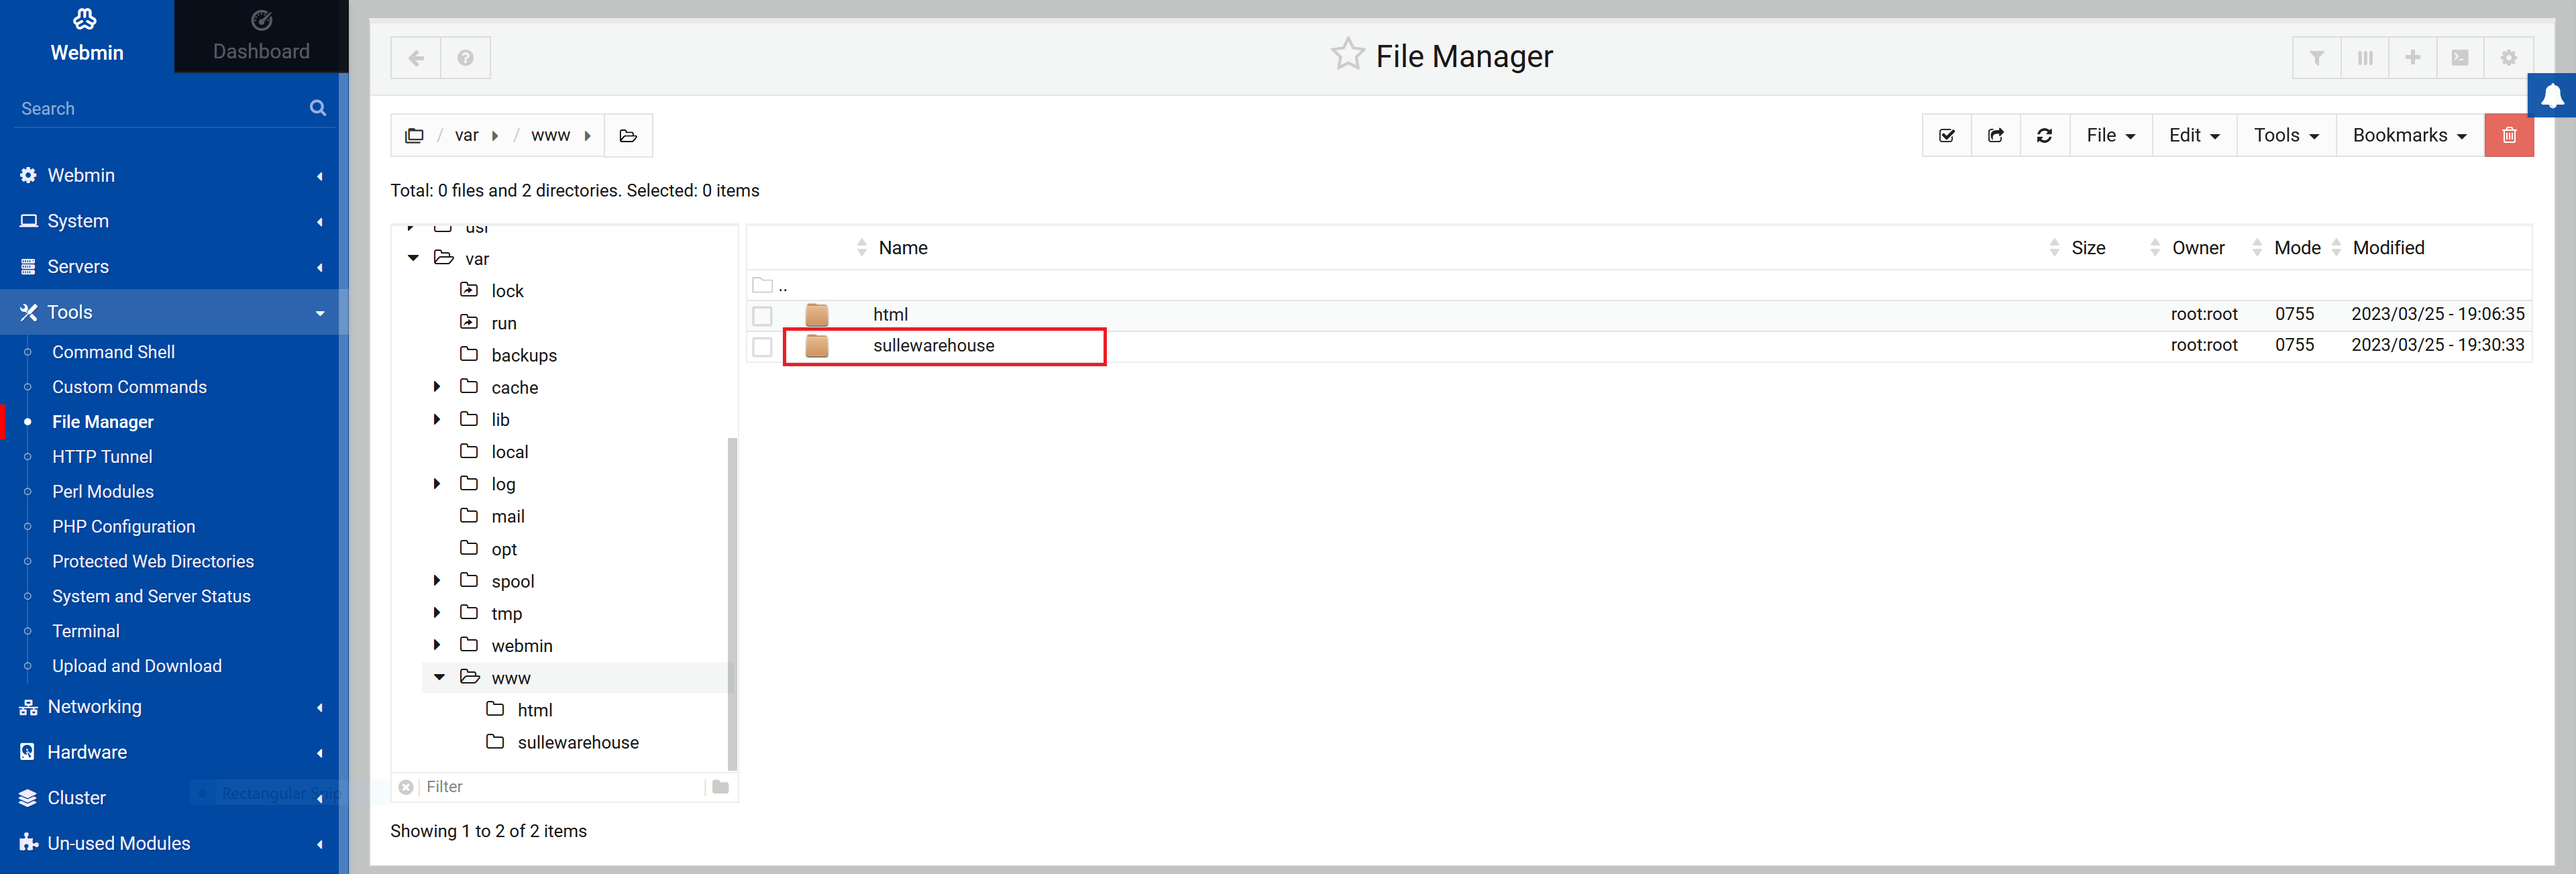
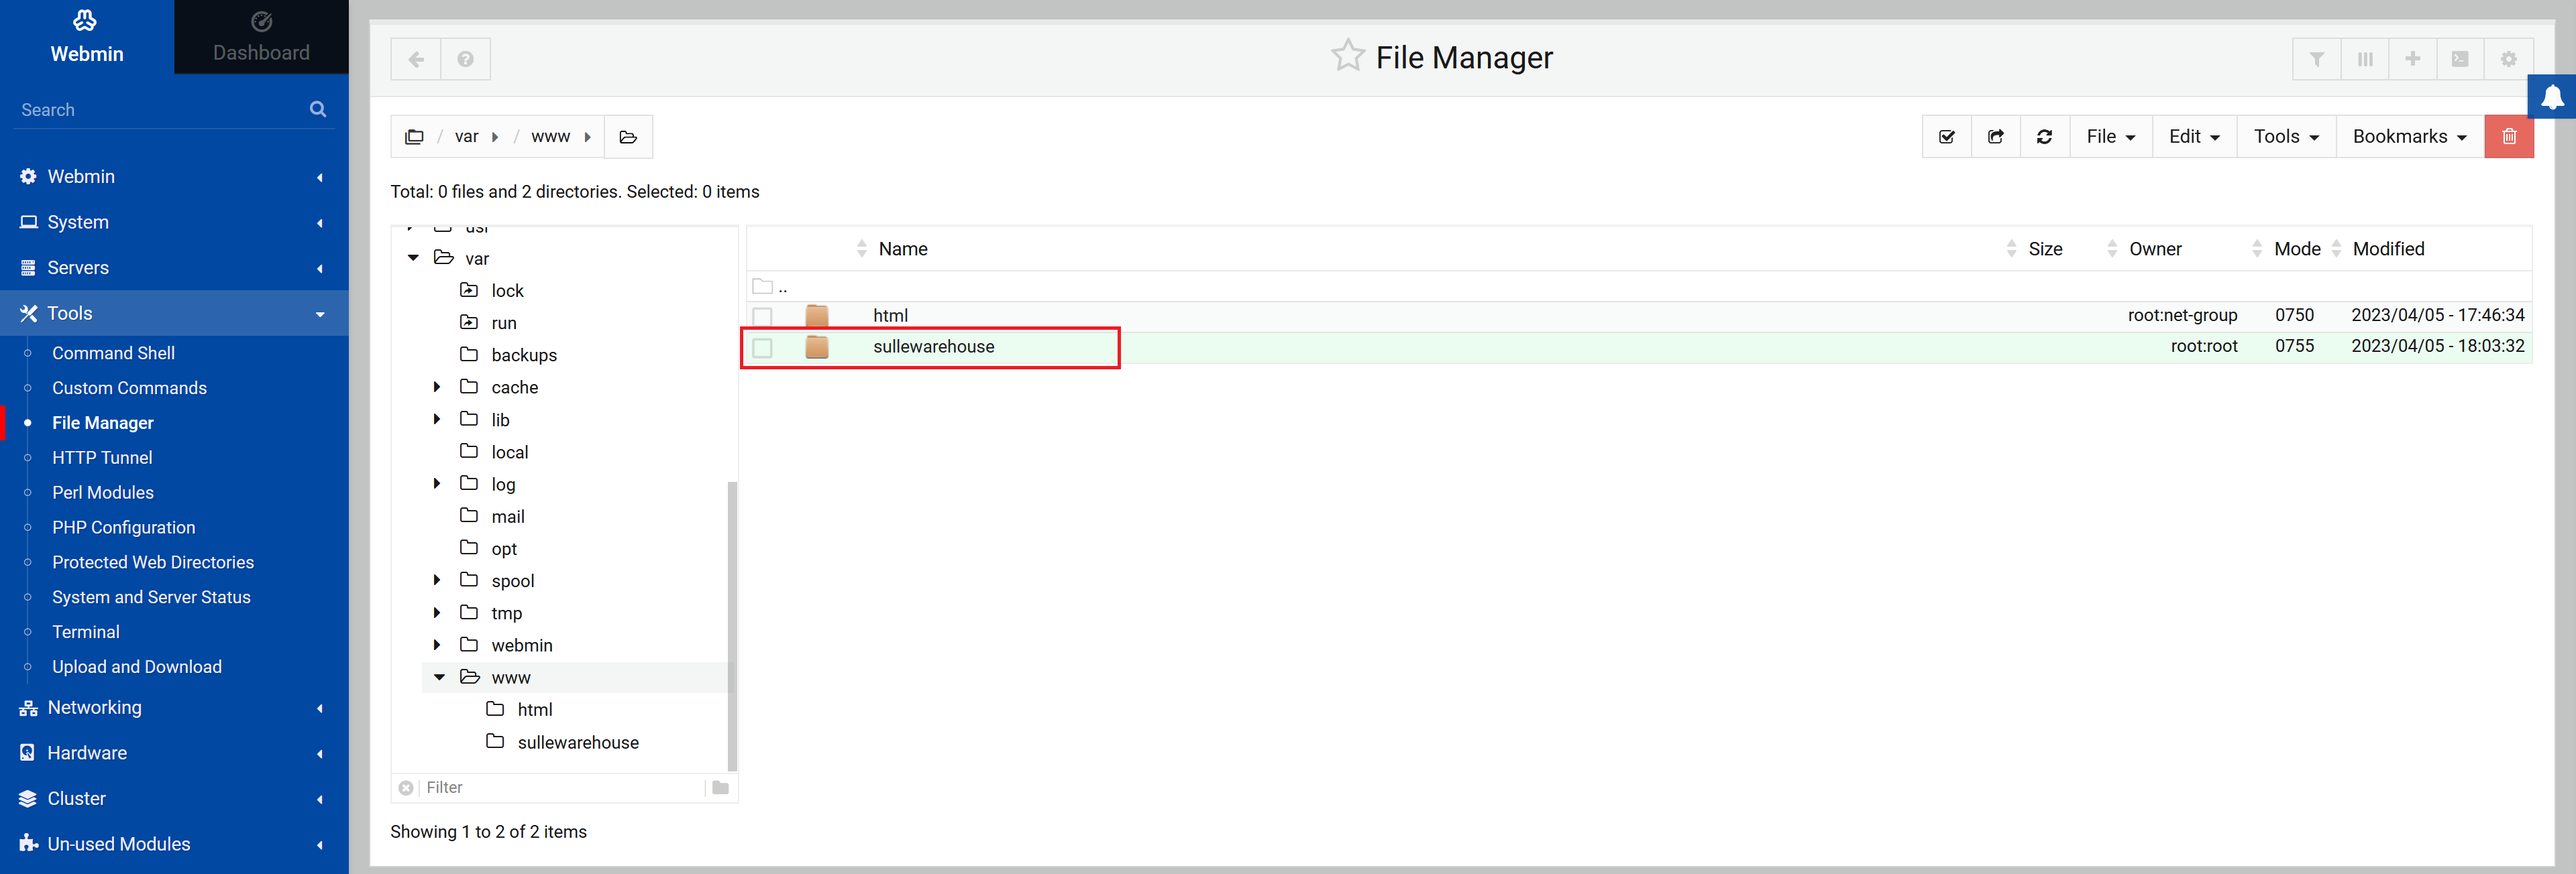
Updated Apache Setup and added basic Mail Setup

diff --git a/Postfix-Dovecot-Setup.md b/Postfix-Dovecot-Setup.md
@@ -1,0 +1,136 @@
+# Postfix & Dovecot Mail Server Setup
+### Introduction
+This is the 3rd part of the [Linux Server Setup](LSS.md) walkthrough  
+Previously we installed the following software:
+- OpenSSH
+- Webmin
+- Apache Webserver
+- MySQL Database Server
+- Postfix Mail Server
+- Dovecot IMAP/POP3 Server
+- ProFTPD
+- PHP
+
+Now we will setup our Postfix & Dovecot Mail Server.  
+Start by using SSH to login to your server:
+```
+ssh root@ip-address
+```
+
+### Postfix Configuration
+
+Enter postfix setup wizard:
+```
+dpkg-reconfigure postfix
+```
+
+1. Select `Internet Site`
+2. Enter your `System mail name`, this should match your rDNS PTR record.
+3. Type the `Recipient for root and postmaster mail` you may leave this blank.
+4. Enter the `List of domains to receive mail for`
+```
+MyWebSite.com, localhost.localdomain, , localhost
+```
+5. Select `Force synchronous updates` option, you can use the default.
+6. Enter `Local networks`, you can use defaults.
+7. Enter `Mailbox size limit`, you can use the default `0`.
+8. Type the `Local address extension character`, you can use the default `+`.
+9. For `Internet protocols to use` select `all`
+
+Set postfix to use the `Maildir` format instead of the `mbox` format:
+```
+postconf -e 'home_mailbox= Maildir\'
+```
+
+### OpenDKIM Key Generation
+
+Install and enable opendkim:
+```
+apt-get install opendkim opendkim-tools
+systemctl start opendkim
+systemctl enable opendkim
+```
+
+Create a opendkim directory and generate dkim keys for your site:
+```
+mkdir /etc/opendkim
+opendkim-genkey -D /etc/opendkim/ --domain MyWebSite.com --selector mail
+```
+
+Set the owner of the opendkim directory to opendkim:
+```
+chown -R opendkim:opendkim /etc/opendkim
+```
+
+### OpenDKIM Configuration
+
+Open a browser and login to Webmin
+
+Open `/etc/opendkim.conf`  
+1. Comment out
+```
+Socket			local:/run/opendkim/opendkim.sock
+```
+2. Uncomment
+```
+Socket			inet:8891@localhost
+```
+3. Append the following lines:
+```
+ExternalIgnoreList refile:      /etc/opendkim/TrustedHosts
+InternalHosts refile:           /etc/opendkim/TrustedHosts
+KeyTable refile:                /etc/opendkim/KeyTable
+SigningTable refile:            /etc/opendkim/SigningTable
+SignatureAlgorithm              rsa-sha256
+```
+Save the changes to `/etc/opendkim.conf`  
+
+![Alt Text](images/dkim/1.png)
+
+Create the `/etc/opendkim/TrustedHosts` file and add your domain to it, click on the save icon.
+
+![Alt Text](images/dkim/2.png)
+
+Create the `/etc/opendkim/KeyTable` file and add:
+```
+mail._domainkey.MyWebSite.com MyWebSite.com:mail:/etc/opendkim/dkim.private
+```
+Replace MyWebSite with your domain name and click the save icon.
+
+![Alt Text](images/dkim/3.png)
+
+Create the `/etc/opendkim/SigningTable` file and add:
+```
+*@MyWebSite.com mail._domainkey.MyWebSite.com
+```
+Replace MyWebSite with your domain name and click the save icon.
+
+![Alt Text](images/dkim/4.png)
+
+**Restart the server.**
+
+### Configure DKIM DNS records
+
+Create a TXT DNS record that matches `/etc/opendkim/mail.txt`, the record is separated into 3 parts with `"`, you will need to edit out the unwanted characters.
+
+![Alt Text](images/dkim/5.png)
+
+### Test Mail Server
+1. Use https://dmarcian.com/dkim-inspector/ to check your dkim records.
+
+2. use https://www.wormly.com/test-smtp-server to test your mail server.
+
+Go back to the terminal & install mailutils:
+
+```
+apt-get install mailutils
+```
+
+Send a test email using mailutils:
+```
+sendmail MyEmail@gmail.com
+Subject: Test
+Hello from my email server!
+
+```
+Press `CTRL+D` to send the email.

diff --git a/Apache-Setup.md b/Apache-Setup.md
@@ -1,23 +1,47 @@
 # Apache Webserver Setup
 ### Introduction
-This is the 2nd part of the [Linux Server Setup](LSS.md) walkthrough  
+This is the 2nd part of the [Linux Server Setup](LSS.md) walkthrough.  
 Previously we installed the following software:
 - OpenSSH
 - Webmin
 - Apache Webserver
+- Dovecot IMAP/POP3 Server
 - MySQL Database Server
 - Postfix Mail Server
 - ProFTPD
 - PHP
 
-Now we will setup our Apache Webserver with SSL encryption  
-Start by logging into your Webmin interface at `https://ip-address:10000/`
+Now we will setup our Apache Webserver with PHP support and SSL encryption.
+
+### Enable PHP Read & Execute Permissions
+By default PHP runs as `www-data` user, we need to give that user read & execute permissions for the `/var/www` directory.  
+Start by logging into your server with SSH:
+```
+ssh root@ip-address
+```
+Create a new group that includes the `www-data` user:
+```
+groupadd net-group
+usermod -a -G net-group www-data
+```
+Change the group ownership of the `/var/www` directory and its subdirectories to the created group:
+```
+chown -R :net-group /var/www
+```
+Change the permissions of the `/var/www` directory and its subdirectories to allow group members to read and execute:
+```
+chmod -R 750 /var/www
+```
+`-R` means "recursive", `750` means read, write & execute for owner, read & execute for group, no permissions for others.
+
+If you don't do this you will likely get a blank page in your browser if you use `index.php` for a web page.
 
 ### Create Site Directory
+Start by logging into your Webmin interface at `https://ip-address:10000/`  
 Goto `Tools->File Manager` in the left panel  
 Navigate to `/var/www` and create a new directory for your site  
-Create a new file named `index.html`, this will be our website home page  
-Add `Hello World` to the file and click on the save icon
+Inside your new directory create a new file named `index.php`, this will be our website home page  
+Add `<?php phpinfo(); ?>` to the file and click on the save icon
 
 ![Alt Text](images/apache/1.png)
 ![Alt Text](images/apache/2.png)
@@ -96,15 +120,8 @@ Click on `Save`
 
 ![Alt Text](images/apache/7.png)
 
-### Enable PHP Execution
-You will need to run the following command to ensure that the Apache service has read and execute permissions for PHP
-```
-chmod -R 777 /var/www
-```
-
-If you don't do this you will likely get a blank page in your browser if you use a `index.php` file.
-
-Next we will enable PHP execution in HTML files  
+### Enable PHP in HTML
+Goto `Servers->Apache Webserver`  
 Click on the `Default Server` and open `MIME Types`  
 Add an extra MIME type, Type = `application/x-httpd-php`, Extensions = `.html`  
 Click on `Save`
@@ -113,3 +130,5 @@ Click on `Save`
 
 ![Alt Text](images/apache/8.png)
 
+# Next
+- [Postfix & Dovecot Setup](Postfix-Dovecot-Setup.md)

diff --git a/LSS.md b/LSS.md
@@ -30,12 +30,13 @@ apt install speedtest-cli
 speedtest-cli --secure
 ```
 
-Install Webmin
+Install cURL and Webmin
 ```
 apt install curl
 curl -o setup-repos.sh https://raw.githubusercontent.com/webmin/webmin/master/setup-repos.sh
 sh setup-repos.sh
 apt-get install webmin
+rm setup-repos.sh
 ```
 
 You can now access Webmin at `https://ip-address:10000/`  
@@ -59,8 +60,9 @@ ip addr show eth0
 ```
 
 In the left Webmin panel, under `Un-used Modules`, you can install the desired modules  
-Some recommended modules are:
+For this tutorial series we are installing the following:
 - Apache Webserver
+- Dovecot IMAP/POP3 Server
 - MySQL Database Server
 - Postfix Mail Server
 - ProFTPD
@@ -95,7 +97,7 @@ Similarly, to use PostgreSQL with PHP you should install the php-pgsql package:
 apt install php-pgsql
 ```
 
-Install cURL for PHP, applications like stripe need this.
+Install cURL for PHP, applications like stripe need this:
 ```
 apt-get install php-curl
 ```

diff --git a/README.md b/README.md
@@ -3,7 +3,7 @@ Walkthrough setting up a Linux or Windows server
 
 - [Linux Server Setup](LSS.md)
   - [Apache Setup](Apache-Setup.md)
-  - Postfix Mail Server Setup (coming soon)
+  - [Postfix & Dovecot Setup](Postfix-Dovecot-Setup.md)
 
 Tutorials and Walkthroughs are for educational purposes only  
 SULLE WAREHOUSE and Authors can't be held accountable for any damages done
